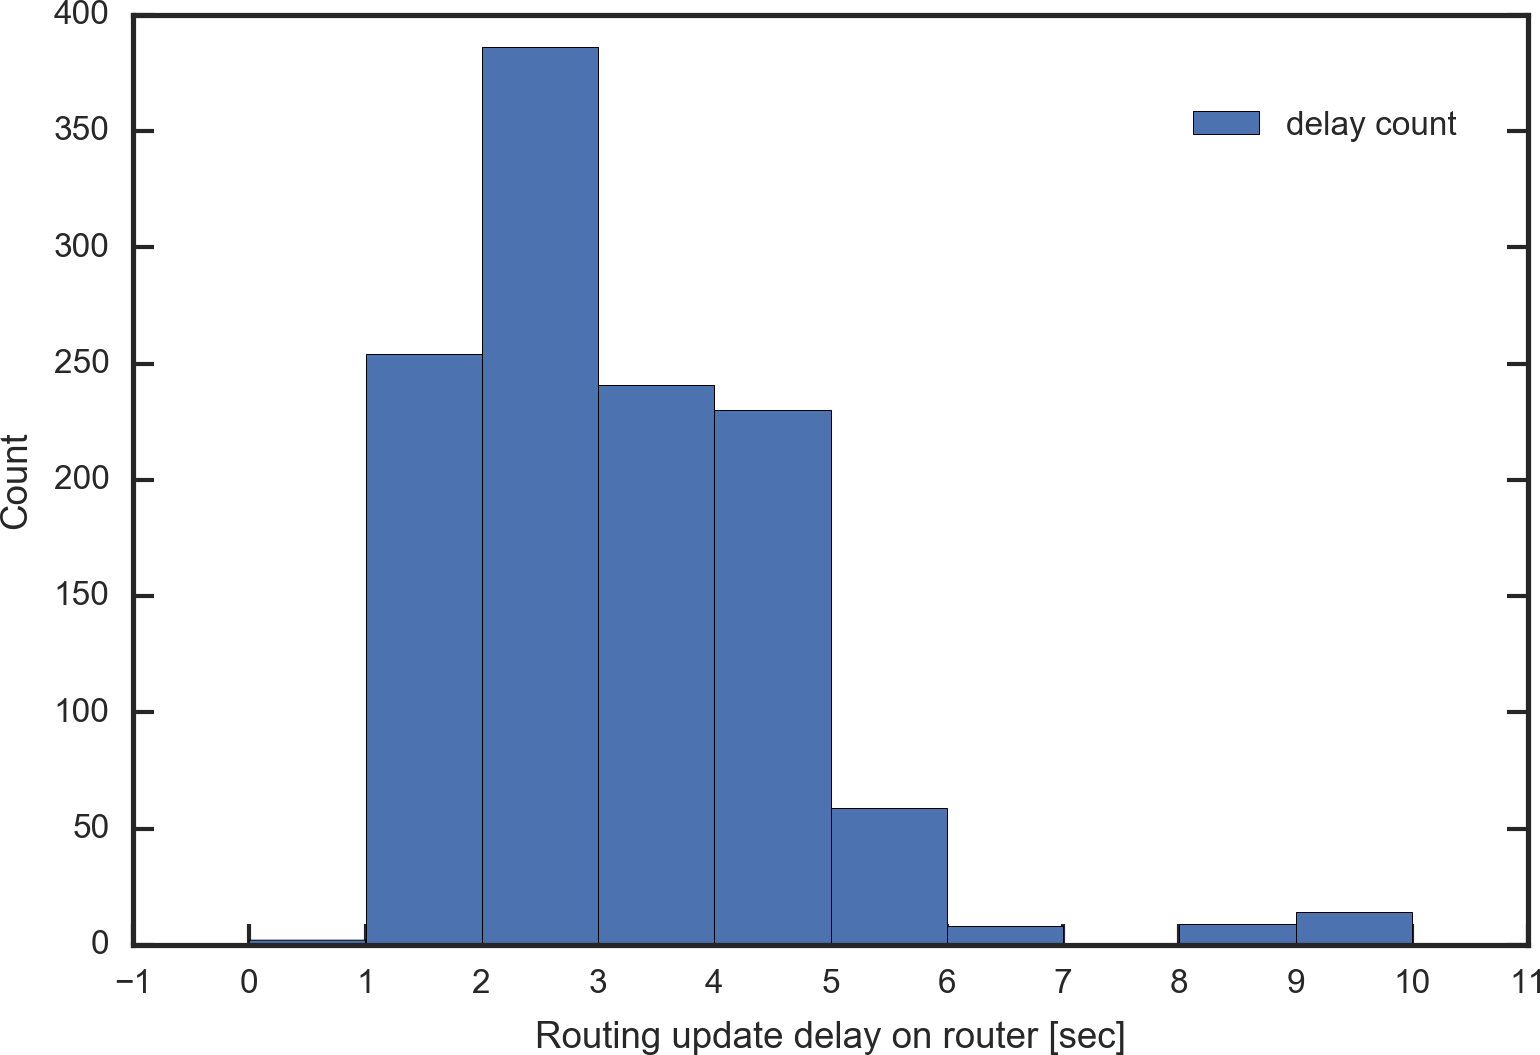
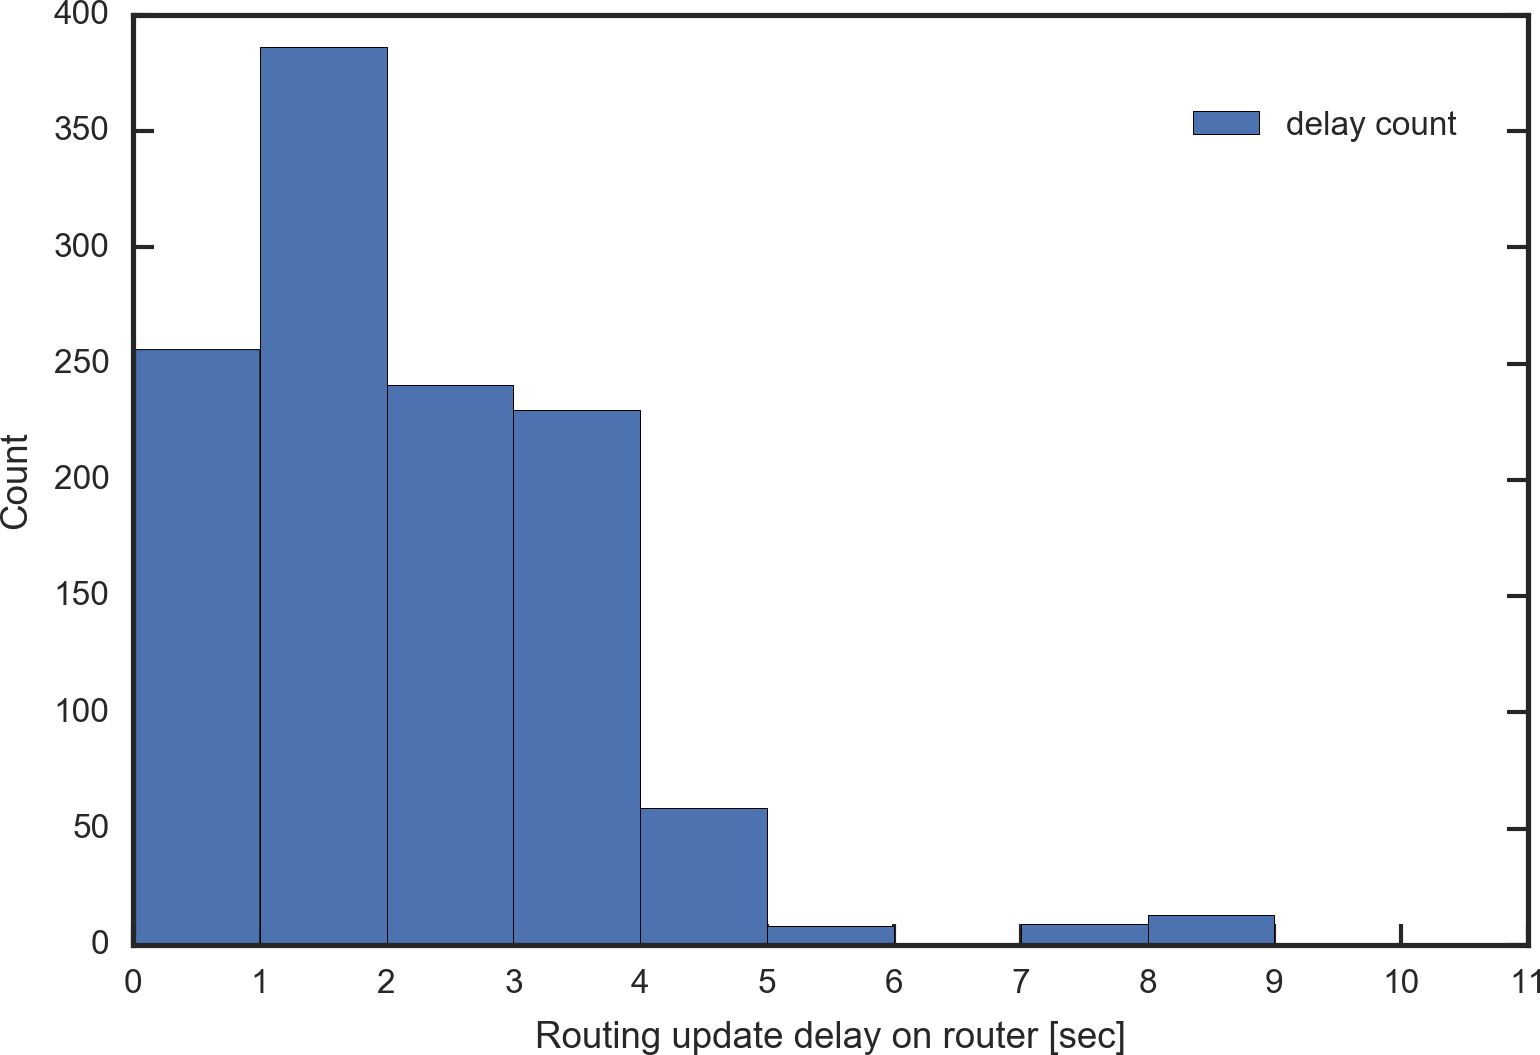
wip

diff --git a/body.tex b/body.tex
@@ -747,7 +747,7 @@ We could accommodate two different services with different IP addresses, one wit
 The update of the routing entry was almost instant as we started the load balancers for the second service.
 
 We also carried out throughput measurement to show that our proposed architecture increases the throughput as we increase the number of the load balancers.
-Fig.~\ref{fig:ecmp_delay_histgram_ieice}~(\subref{fig:ecmp_lb_cubic_ieice}) shows the results of the measurements.
+Fig.~\ref{fig:ecmp_scalability}~(\subref{fig:ecmp_lb_cubic_ieice}) shows the results of the measurements.
 There are four solid lines in the figure, each corresponding the throughput result when there are one through four of the proposed load balancers.
 %As can be seen in the figure, as we increased the number of the pod the thoroughput increased linearly to a certain level after which it saturated.
 The saturated levels, i.e. performance levels depend on the number of the ipvs load balancer pods(lb x 1 being the case with one ipvs pods, and lb x2 being two of them and as such), which increases linearly as we increases the number of the load balancers.
@@ -756,14 +756,14 @@ It had almost the same performance level as the case when there were four load b
 We suspect that this was because we used up CPU power of the benchmark client since the CPU idle was 0\% when there were more than four load balancers.
 We expect that replacing the benchmark client with more powerful machines, or changing the experimental setup so that multiple benchmark clients can access the load balancers through an ECMP router, will improve the performance level further.
 
-Fig.~\ref{fig:ecmp_delay_histgram_ieice}~(\subref{fig:ecmp_response_ieice}) shows the throughput measurement results when we periodically changed the number of the load balancers. 
+Fig.~\ref{fig:ecmp_scalability}~(\subref{fig:ecmp_response_ieice}) shows the throughput measurement results when we periodically changed the number of the load balancers. 
 The red line in the figure shows the number of the ipvs load balancer pods, which we changed randomly every 60 seconds.
 The blue line corresponds to the resulting throughput.
 As we can see from the figure, the blue line nicely follows the shape of the red line.
 This indicates that new load balancers are immediately utilized after they are created, and after removing some load balancers, the traffic to them is immediately directed to the existing load balancers.
 
-Fig.~\ref{fig:ecmp_delay_histgram_ieice}~(\subref{fig:ecmp_delay_histgram_ieice}) shows histogram of the ECMP update delay, where we measured the delays until the number of running ipvs pods is reflected in the routing table on the benchmark client, as we change the number of the ipvs pods randomly every 60 seconds for 20 hours.
-As we can see from the figure, most of the delays are within 7 seconds, and the largest delay during the 20 hours experiment was 10 seconds.
+Fig.~\ref{fig:ecmp_scalability}~(\subref{fig:ecmp_delay_histgram_ieice}) shows histogram of the ECMP update delay, where we measured the delays until the number of running ipvs pods is reflected in the routing table on the benchmark client, as we change the number of the ipvs pods randomly every 60 seconds for 20 hours.
+As we can see from the figure, most of the delays are within 6 seconds, and the largest delay during the 20 hours experiment was 10 seconds.
 We can conclude that ECMP routing update in our proposed architecture is quick enough.
 
 \begin{figure}[tb]
@@ -791,7 +791,7 @@ We can conclude that ECMP routing update in our proposed architecture is quick e
   \end{subfigure}
 
   \caption{Scalability of portable load balancer with ECMP redundancy.}
-  \label{fig:ecmp_delay_histgram_ieice}
+  \label{fig:ecmp_scalability}
 
 \end{figure}
 

diff --git a/profile.tex b/profile.tex
@@ -1,5 +1,5 @@
 
-\profile*{Kimitoshi Takahashi}{received the B.S. degree from Tokyo University in 1993.
+\profile*{Kimitoshi Takahashi}{received the B.S. degree from The University of Tokyo in 1993.
 During 1993--2002, he stayed at Fujitsu Labs. Limited and worked in the field of semiconductor lithography. 
 Form 1999 to 2000 he stayed at Stanford University as a visiting scholar.
 In 2002, he founded Cluster Computing Inc. and stayed as CEO since then. 
